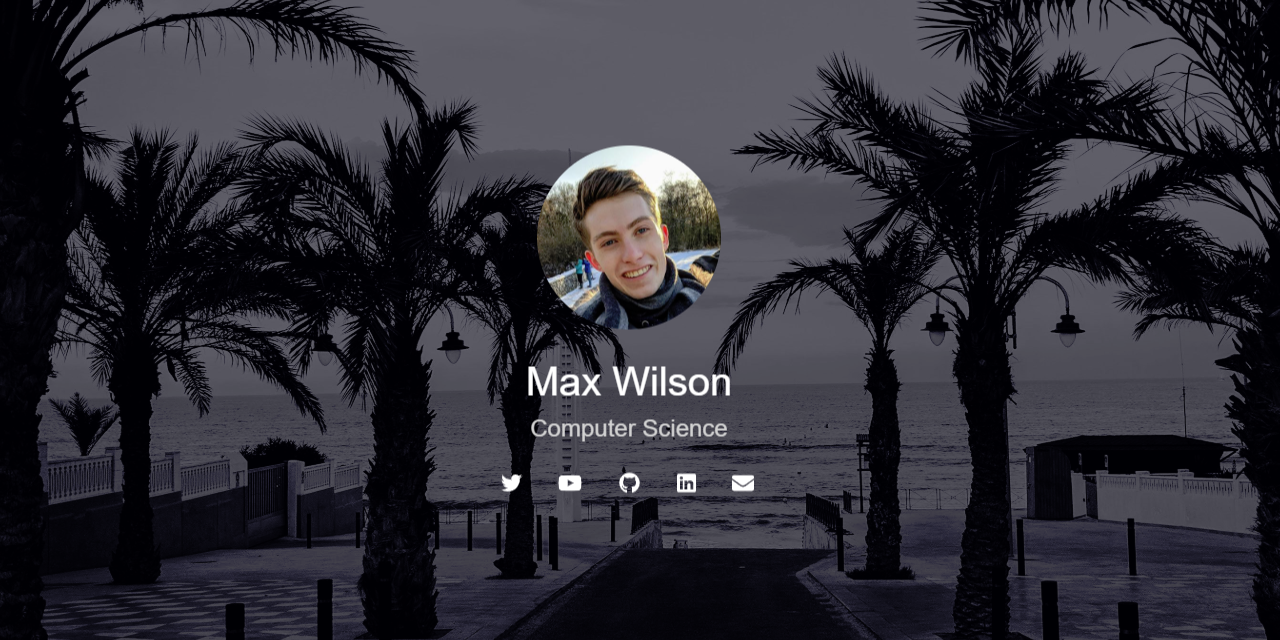
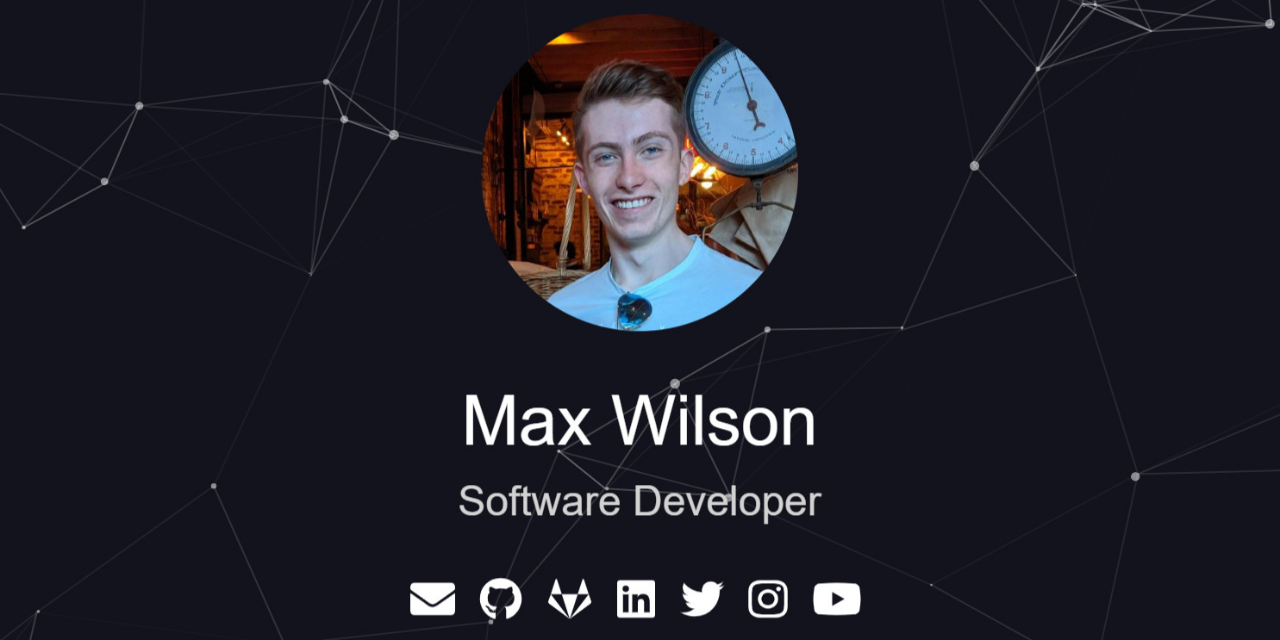
Updated OG and repo image

diff --git a/index.html b/index.html
@@ -6,10 +6,7 @@
 	<meta charset="utf-8">
 	<meta name="viewport" content="width=device-width, initial-scale=1, viewport-fit=cover">
 	<meta name="description" content="Max Wilson - Student studying Computer Science">
-	<meta property="og:title" content="Max Wilson Personal Website" />
-	<meta property="og:type" content="website" />
-	<meta property="og:url" content="https://www.maxwilson.co.uk/" />
-	<meta property="og:image" content="https://www.maxwilson.co.uk/assets/bg.webp" />
+
 	<!-- Favicon Links/Metadata -->
 	<link rel="apple-touch-icon" sizes="180x180" href="/apple-touch-icon.png?v=M4K5AbWmLm">
 	<link rel="icon" type="image/png" sizes="32x32" href="/favicon-32x32.png?v=M4K5AbWmLm">
@@ -19,6 +16,15 @@
 	<link rel="shortcut icon" href="/favicon.ico?v=M4K5AbWmLm">
 	<meta name="msapplication-TileColor" content="#13131d">
 	<meta name="theme-color" content="#13131d">
+
+	<!-- OG Metadata -->
+	<meta property="og:image" content="/og-image.jpg">
+	<meta property="og:image:width" content="1485">
+	<meta property="og:image:height" content="778">
+	<meta property="og:title" content="Max Wilson - Software Developer">
+	<meta property="og:description"
+		content="Portfolio for Max Wilson, displaying current endeavors, past projects, and social links">
+	<meta property="og:url" content="https://maxwilson.co.uk/">
 
 	<!-- Google AdSense -->
 	<script data-ad-client="ca-pub-6528299985588319" async
@@ -54,18 +60,21 @@
 	<script src="https://kit.fontawesome.com/d368698d9e.js" crossorigin="anonymous"></script>
 
 	<script>
+		//Code to switch to HTTPS
 		var host = "maxwilson.co.uk";
 		if ((host == window.location.host) && (window.location.protocol != "https:"))
 			window.location.protocol = "https";
 	</script>
 
 	<script>
+		//Code to enable the arrow page movement
 		function move(e) {
 			var mover = e.getAttribute("mover");
 			var moveto = e.getAttribute("moveto");
 			document.getElementById(mover).style.display = "block";
 			document.getElementById(moveto).style.display = "none";
 		}
+		//Code to launch the particle background canvas
 		particlesJS.load('particles-js', 'assets/particles.json', function () {
 			console.log('callback - particles.js config loaded');
 		});
